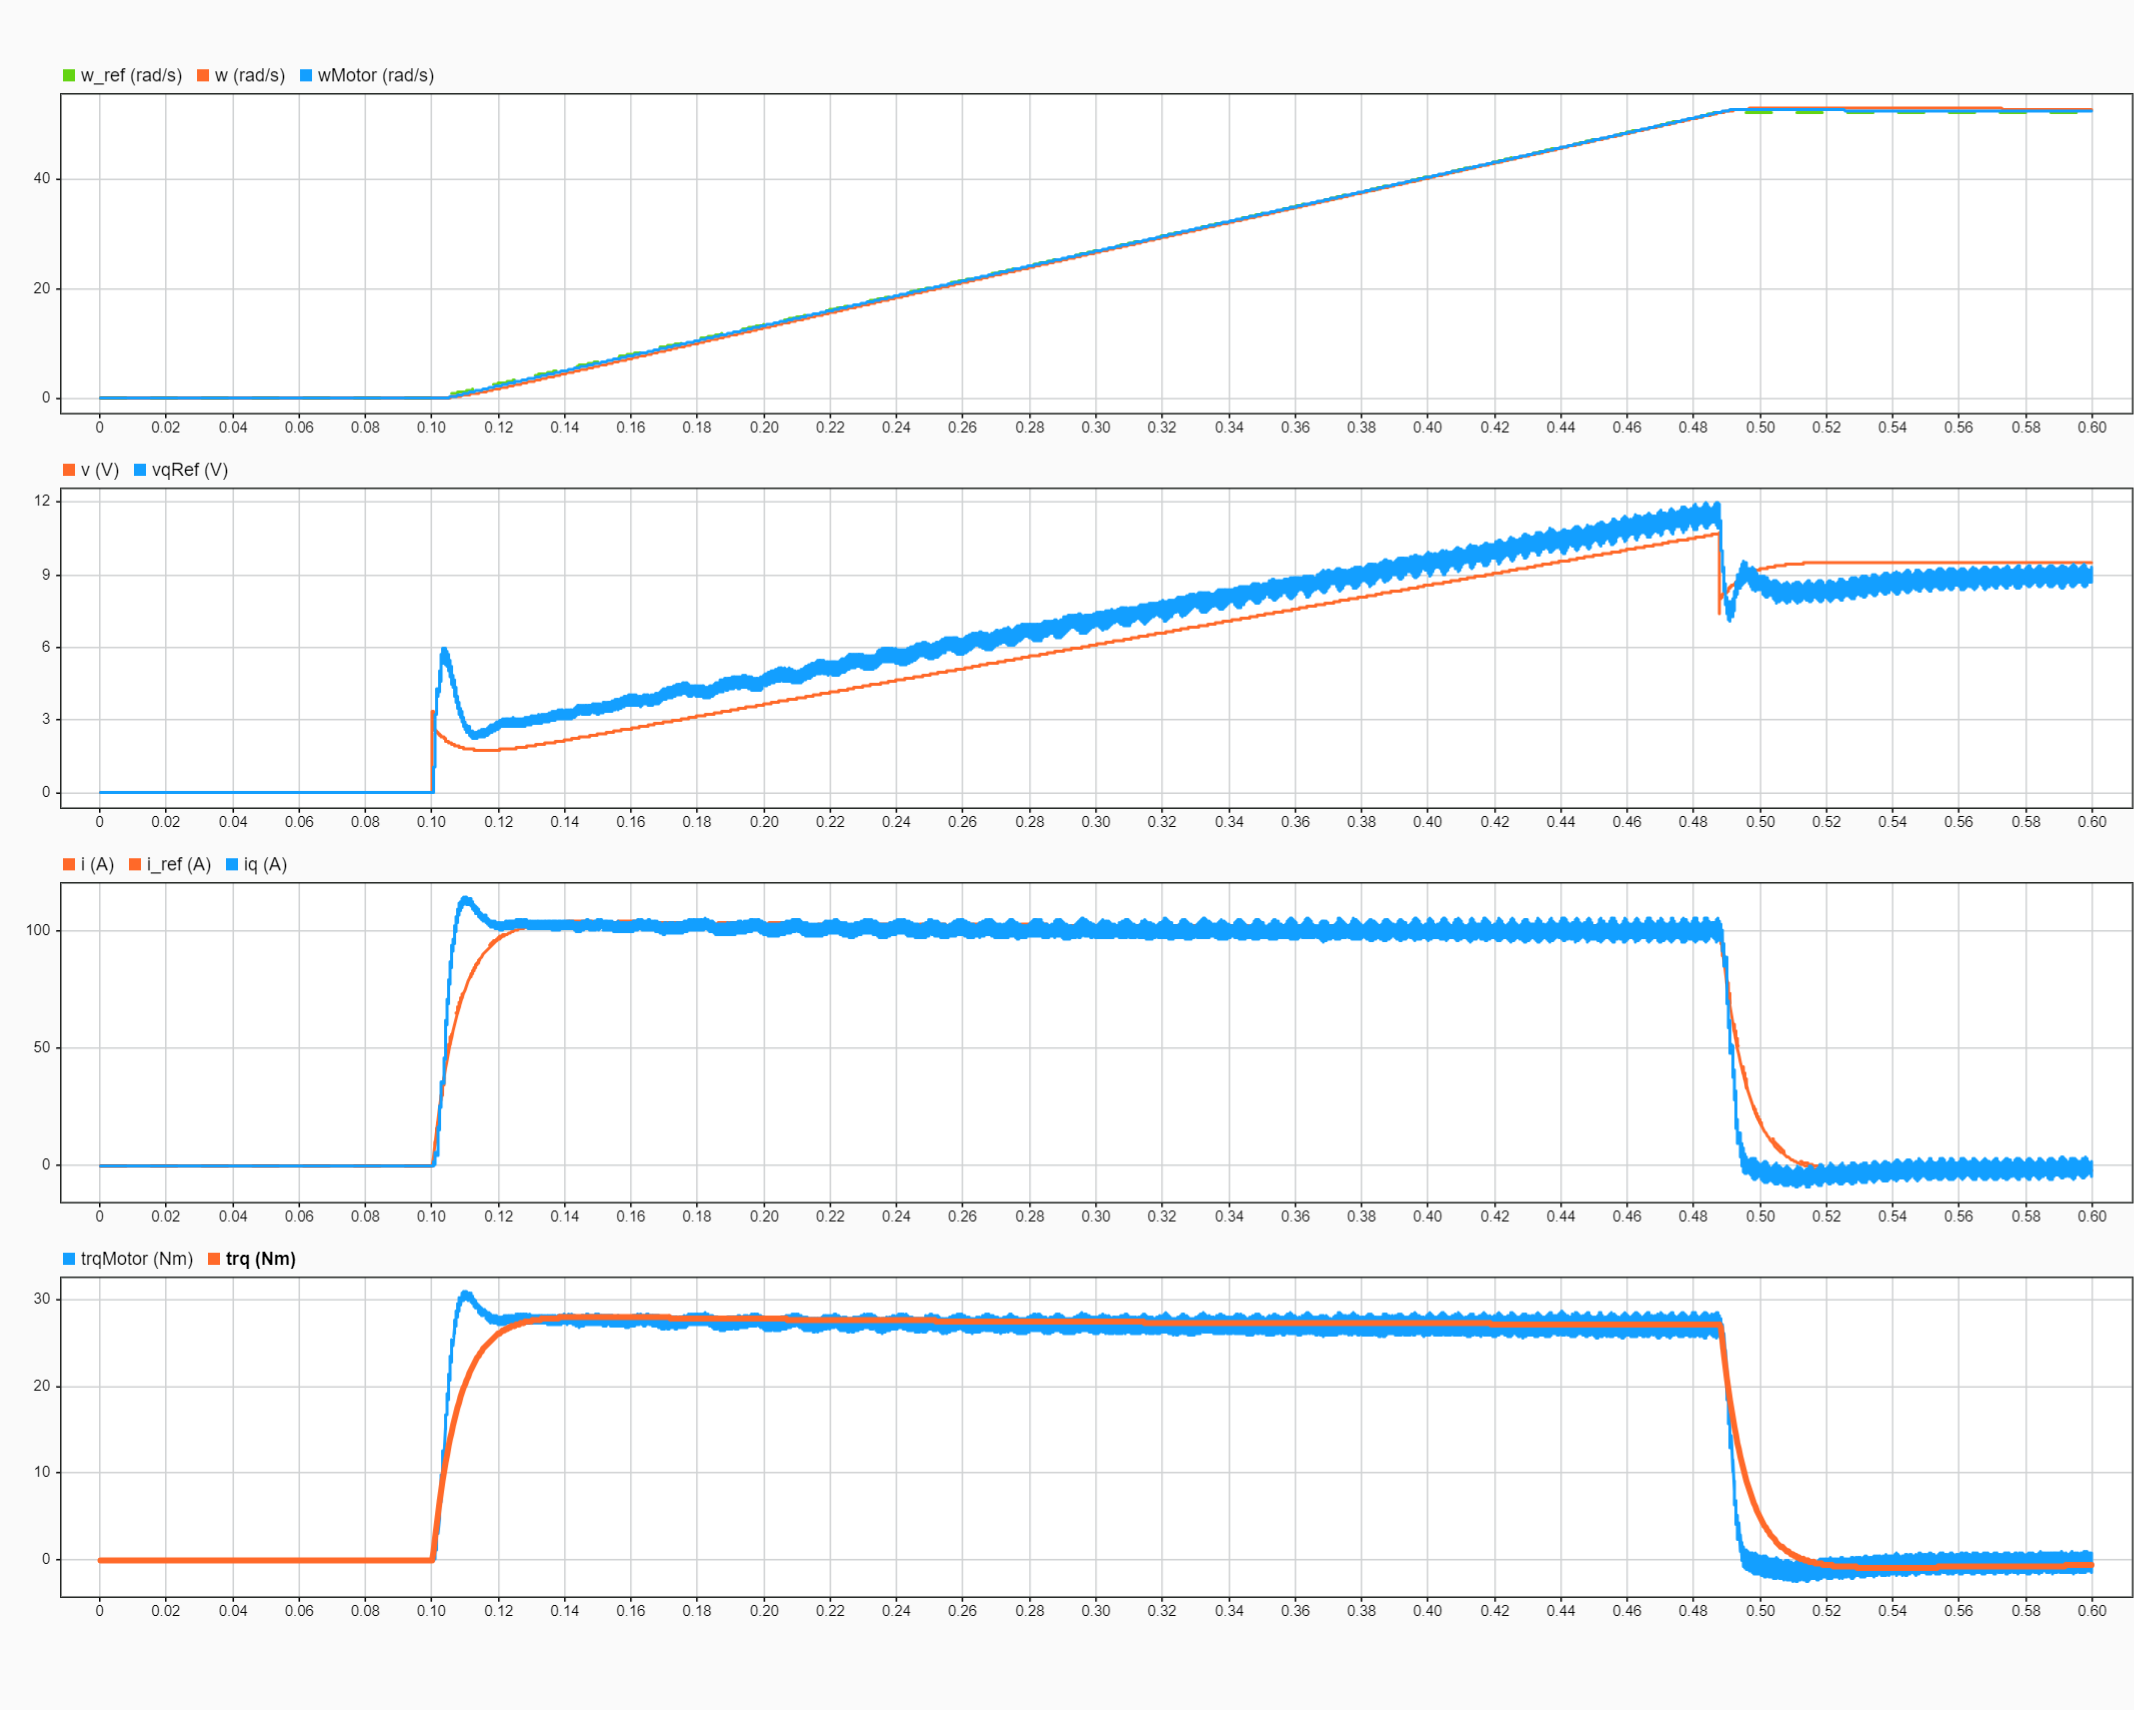
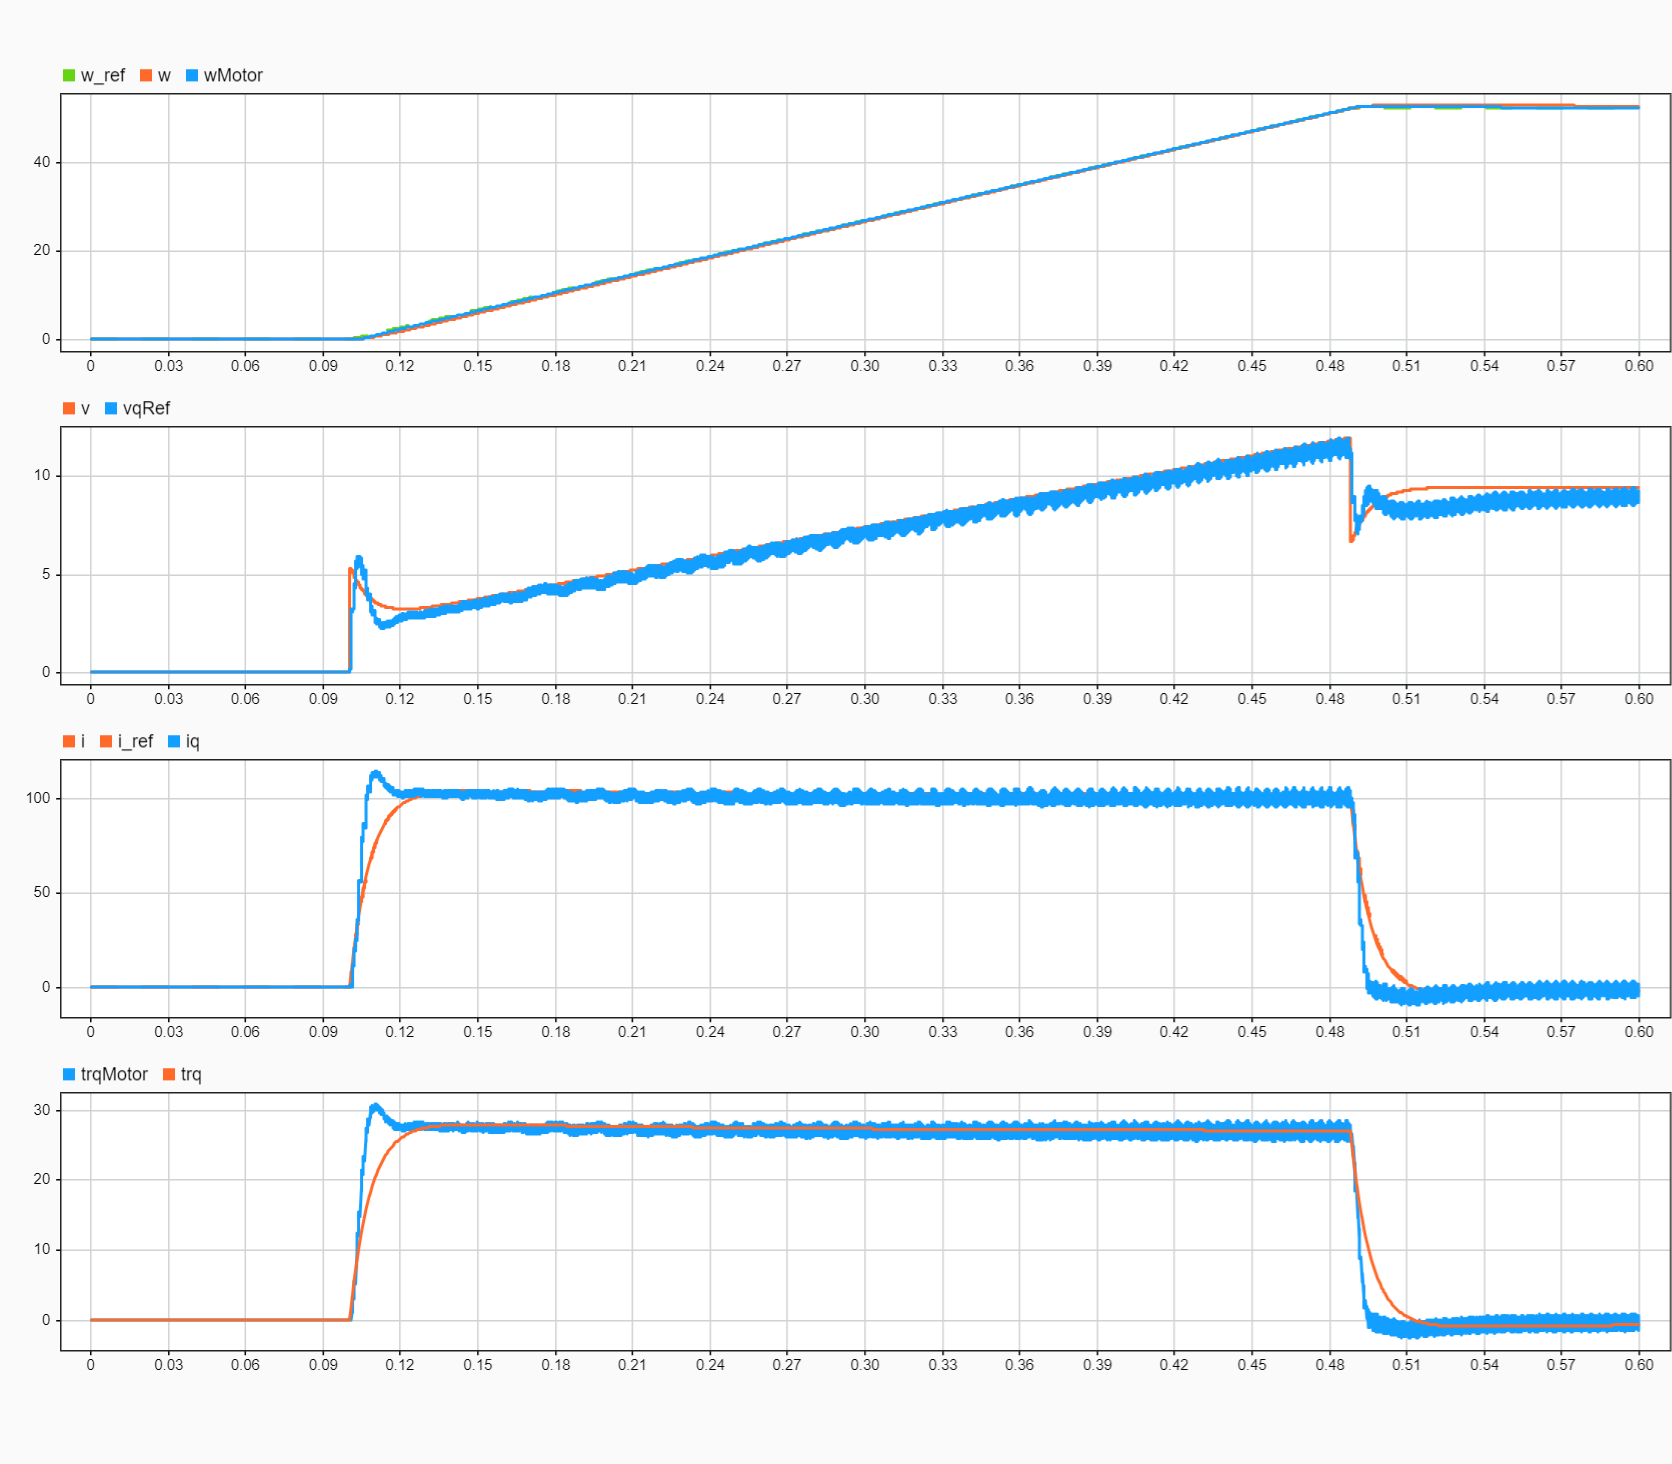
Rs and Lq values updated

diff --git a/sandbox/equivalent-dc-motor/README.md b/sandbox/equivalent-dc-motor/README.md
@@ -2,8 +2,8 @@ Equivalent DC model of a PMSM motor
 ===================================
 
 Considering a PMSM motor controlled via FOC (i.e., the direct current can be neglected), the equivalence with a corresponding DC motor can be enforced by imposing the following relations:
-- The armature resistance of the DC model is equal to the stator resistance per phase $`R_s`$.
-- The armature inductance of the DC model is equal to the stator q-axis inductance $`L_q`$[^1].
+- The armature resistance of the DC model is equal to $`2 \cdot R_s`$, with $`R_s`$ the stator resistance per phase.
+- The armature inductance of the DC model is equal to $`2 \cdot L_q`$ with $`L_q`$ the stator q-axis inductance.
 - $`K_t^{DC} = \frac{3}{2} \cdot K_t^{PMSM}`$, where $`K_t`$ is the torque constant.
 - A portion of the back-emf equal to $`\frac{1}{2} \cdot K_e^{PMSM}`$ is compensated internally, where $`K_e`$ (V/rad/s) is the back-emf constant, which is equal in magnitude to $`K_t`$ (Nm/A), guaranteeing the the units are correct.
 
@@ -16,5 +16,4 @@ Considering a PMSM motor controlled via FOC (i.e., the direct current can be neg
 ### Resources
 - [PMSM dynamic model](https://www.mathworks.com/help/releases/R2024a/sps/ref/pmsm.html)
 - [Three-Phase PMSM Drive](https://www.mathworks.com/help/releases/R2024a/sps/ug/three-phase-pmsm-drive.html)
-
-[^1]: It may be non trivial to find the value of the q-axis inductance in the datasheet. At any rate, thanks to the closed-loop, the equivalence holds fairly robust if we vary the inductance in the range [0.6, 2] * nominal.
+- [How to Model Brushless Electric Motors for the Design of Lightweight Robotic Systems](https://arxiv.org/abs/2310.00080)
